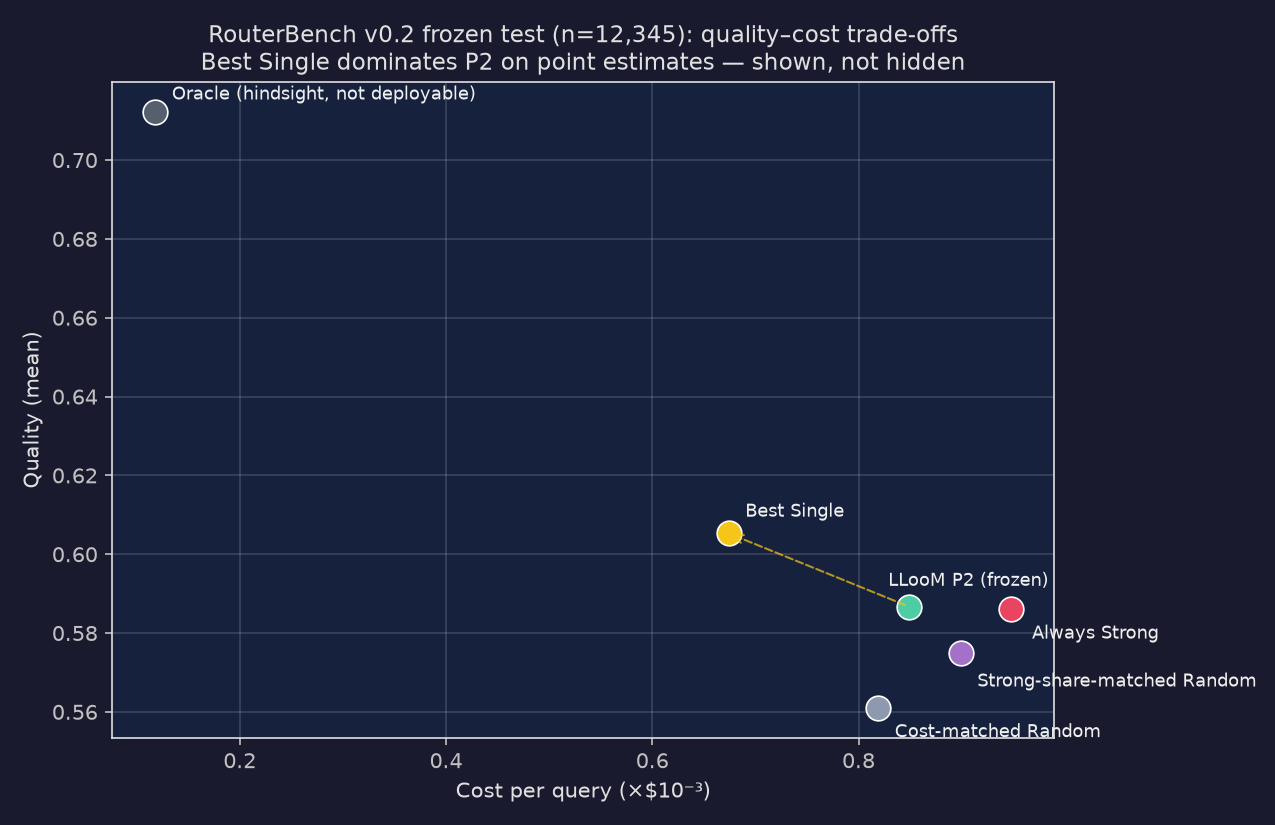
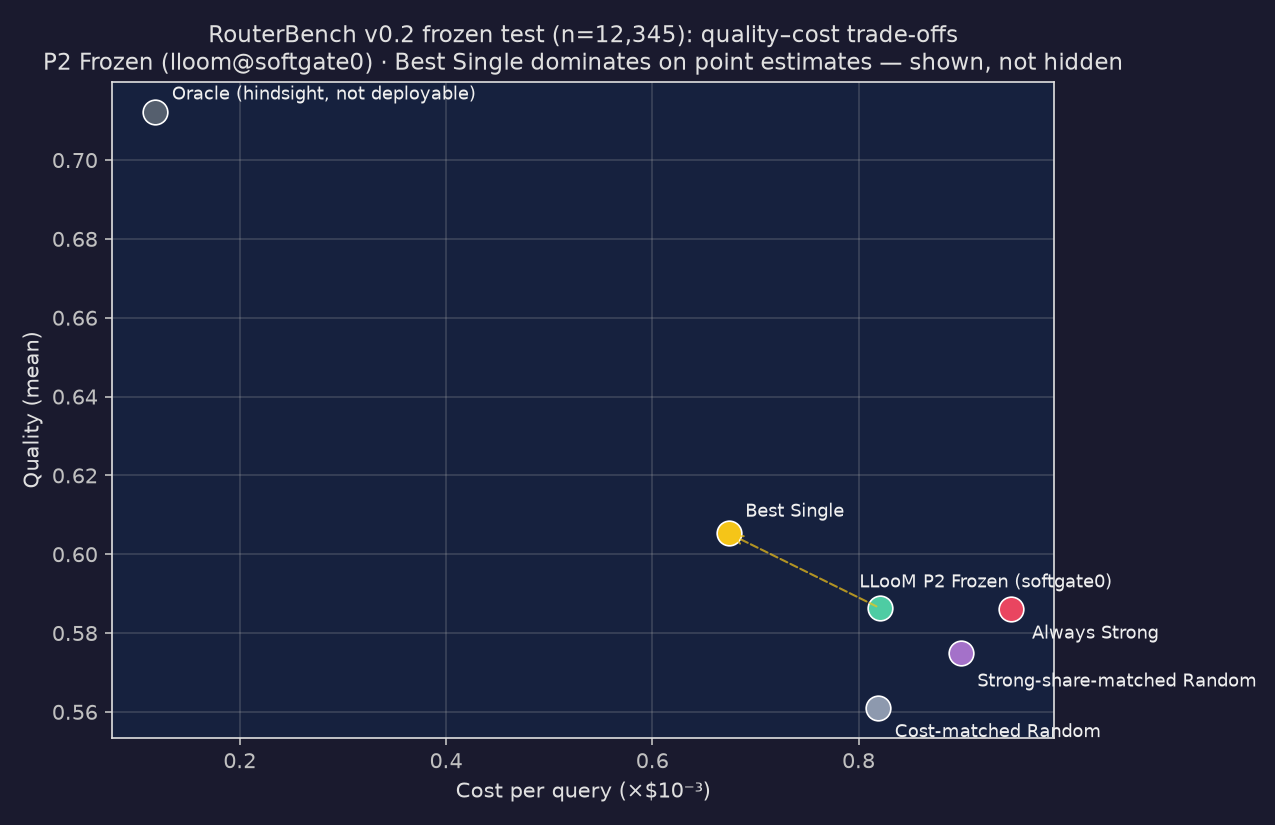
fix(bench): P0-2 勘误——P2 Frozen 数字归属修正（34 号核验）
- 34 号 §2.4 发现：showcase 图1/CSV/报告/claims 与 33 号总结把 lloom run（0.5867/$0.000849，实为 P0 Current/BandOnly）误标为 P2 Frozen
- 真源核实：frozen manifest policy=P2_softgate0；v02_test_report.md「P2 Frozen ⭐」= lloom@softgate0 = 0.5863/$0.000821（selection deephermes 1182+intern 11163；cost-matched random $0.000819 与之匹配为佐证）
- 修正四处：figure_data CSV lloom 行、图 1 重渲染（标题注明 lloom@softgate0）、showcase_report §2 主表+支配句、claims C1（附 runs 身份区分注）
- 33 号总结 §2.2 加勘误块；§2.3 加 calibration(0.809)/frozen test(0.786) 口径区分注（34 号 §2.4）
- offline_replay_check 对照源改 lloom@softgate0：30/30 PASS；showcase_manifest 升 v2（report/figure_data version 2 + erratum 记录）；checklist.md 补 P0-2 勘误记录
- LLooMprogress.md 更新：头部日期 2026-10-10 + benchmark 里程碑段（三 track + showcase 入口链接）+ Rust 测试数 130→138；质量门全绿（clippy 0 错/Rust 138/WebUI build/TUI tsc）

diff --git a/benchmarks/showcase/claims_and_limits.md b/benchmarks/showcase/claims_and_limits.md
@@ -6,7 +6,7 @@
 
 | # | Claim | 数据源 | 分母/条件 |
 |---|---|---|---|
-| C1 | RouterBench v0.2 冻结 test 上，LLooM P2 相对 Always-Strong 成本节省 13.46%（CI95 [12.20, 14.73]），质量保留 1.0005（CI [0.9957, 1.0052]，含 1.0） | `routerbench/reports/v02_test_report.json` | n=12,345；该模型池+policy；实例级 bootstrap B=10k seed=3407 |
+| C1 | RouterBench v0.2 冻结 test 上，**LLooM P2 Frozen（`lloom@softgate0`，frozen manifest policy `P2_softgate0`）** 相对 Always-Strong 成本节省 13.46%（CI95 [12.20, 14.73]），质量保留 1.0005（CI [0.9957, 1.0052]，含 1.0）。注意区分：runs 里 `lloom`/`band_only`（0.5867/$0.000849）是 P0 Current/BandOnly，不是 P2 | `routerbench/reports/v02_test_report.json`（P2 Frozen = `lloom@softgate0`） | n=12,345；该模型池+policy；实例级 bootstrap B=10k seed=3407 |
 | C2 | P2 显著优于 cost-matched random（+2.52pp，CI [2.07, 2.97]）与 strong-share-matched random（+1.14pp，CI [0.75, 1.53]）——content-aware 路由实证 | 同上 | 同上 |
 | C3 | SystemBench v0.1 固定 workflow + frozen outcome 下，P2 路由使 workflow cost 下降 14.95%（CI [−26.59, −5.16]），completion/Q_node 点估计不变 | `systembench/reports/v01_report.json` | test 65 workflows / 327 nodes；workflow-group paired bootstrap |
 | C4 | 并行调度使模拟 makespan 2184.6→500 ms | 同上 | duration-profile 仿真，**必须说 simulated** |

diff --git a/benchmarks/showcase/showcase_report.md b/benchmarks/showcase/showcase_report.md
@@ -22,7 +22,7 @@ soft-gate 0），test 12,345 实例，实例级 paired bootstrap B=10k seed=3407
 |---|---:|---:|---|
 | Always Strong | 0.5860 | $0.000948 | 成本/质量参照 |
 | **Best Single** | **0.6053** | **$0.000674** | 强基线：点估计质量更高且成本更低 |
-| **LLooM P2 (frozen)** | 0.5863 | $0.000849 | headline router policy |
+| **LLooM P2 Frozen (softgate0)** | 0.5863 | $0.000821 | headline router policy（frozen manifest 指向 `P2_softgate0`） |
 | Cost-matched Random | 0.5610 | $0.000819 | 近成本随机对照 |
 | Strong-share-matched Random | 0.5749 | $0.000899 | 近强模型占比随机对照 |
 | Oracle | 0.7122 | $0.000118 | hindsight 上界，不可部署 |
@@ -31,7 +31,7 @@ soft-gate 0），test 12,345 实例，实例级 paired bootstrap B=10k seed=3407
 
 - 相对 Always-Strong：cost saving **13.46% [12.20, 14.73]**；quality retention **1.0005 [0.9957, 1.0052]**（含 1.0，质量差异不显著）
 - 相对 cost-matched random：**+2.52pp [2.07, 2.97]**；相对 strong-share-matched random：**+1.14pp [0.75, 1.53]** —— 路由不是简单随机分派（content-aware 实证）
-- **Best Single 支配 P2 的点估计**（质量 0.6053 > 0.5863，成本 $0.000674 < $0.000849）。
+- **Best Single 支配 P2 的点估计**（质量 0.6053 > 0.5863，成本 $0.000674 < $0.000821）。
 
 > 图：`figures/routerbench_quality_cost.png`（数据：`figure_data/routerbench_v02_frontier.csv`）
 

diff --git a/LLooMprogress.md b/LLooMprogress.md
@@ -1,10 +1,12 @@
 # LLooM v2 项目进度
 
-> 最后更新：2026-10-04 · 分支 `v2` · 当前架构说明见 [`ARCHITECTURE.md`](ARCHITECTURE.md)。
+> 最后更新：2026-10-10 · 分支 `v2` · 当前架构说明见 [`ARCHITECTURE.md`](ARCHITECTURE.md)。
 
 ## 当前状态
 
 LLooM 已完成从 Rust + Python 微服务到**纯 Rust 数据面**的迁移。
+
+**Benchmark 体系（2026-10-05 ～ 10-09）**：三条 track 建成并封板——RouterBench v0.2 冻结（test 12,345：P2 Frozen 省 13.46% 成本 CI[12.20,14.73]、胜过两种匹配随机、Best Single 点估计支配如实入档）；SystemBench v0.1 冻结（frozen composition：routing cost −14.95% CI、simulated makespan 2184.6→500ms）；OrchestrationBench v0.1 offline 基础层；S12 semantic research snapshot（L1 198 cells exploratory 分层、L2 partial）。证据审计与展示包：[`benchmarks/showcase/`](benchmarks/showcase/README.md)（Evidence Tier A-D、claims/limits、三图离线可再生）。**当前处于 maintenance**；重开实验仅由具体研究问题触发（32 号 §11.2 触发器表）。
 
 | 层 | 技术 | 状态 |
 |---|---|---|
@@ -45,7 +47,7 @@ npm run build --prefix webui
 cd tui && npx tsc --noEmit
 ```
 
-当前结果：Rust 130 项测试通过，WebUI 构建通过，TUI 类型检查通过。
+当前结果：Rust 138 项测试通过，WebUI 构建通过，TUI 类型检查通过。
 
 ## 已验证 E2E
 

diff --git a/benchmarks/showcase/audit/checklist.md b/benchmarks/showcase/audit/checklist.md
@@ -41,3 +41,9 @@
 ## Showcase Stop Gate（32 号 §11.1）对照
 
 全部满足 → **当前 benchmark 工作转 maintenance**。重开实验仅由 §11.2 表中触发器驱动。
+
+## P0-2 勘误记录（2026-10-10，34 号核验）
+
+- **P2 Frozen 数字归属修正**（34 号 §2.4）：showcase 图 1/CSV/报告/claims 与 33 号总结原把 `lloom` run（0.5867/$0.000849，实为 P0 Current/BandOnly）标为 P2 Frozen。真源：`v02_test_report.md`「P2 Frozen ⭐ = `lloom@softgate0` = 0.5863/$0.000821」（frozen manifest policy=`P2_softgate0`；cost-matched random $0.000819 与之匹配为佐证）。已修正：figure CSV、图 1 重渲染、showcase_report §2、claims C1、33 号 §2.2（含勘误块）。
+- **calibration/test 口径区分**（34 号 §2.4）：33 号 §2.3 加注——calibration weak precision 0.809（Day 9 tournament）≠ frozen test 0.786（CI [0.7629, 0.8086]）。
+- **校验与 manifest**：offline_replay_check 30/30 PASS（fig1.lloom 对照源改为 `lloom@softgate0`）；showcase_manifest 升 v2（report/figure_data version 2，erratum 记录）。
